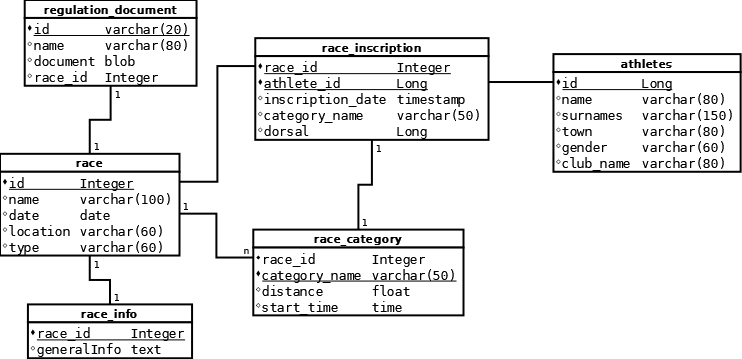
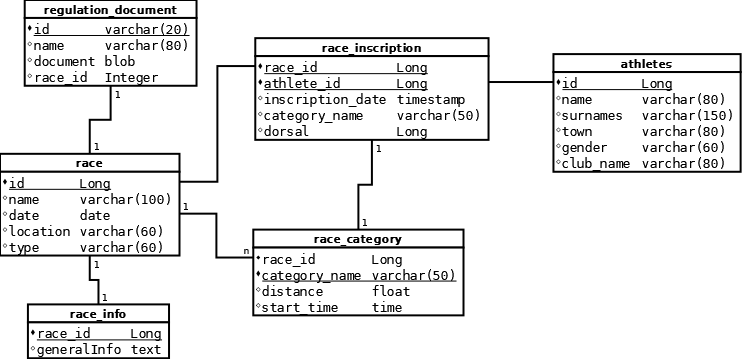
Created race info post request

diff --git a/src/main/java/com/sergio/RaceRegistrationAPI/controller/RaceInfoController.java b/src/main/java/com/sergio/RaceRegistrationAPI/controller/RaceInfoController.java
@@ -1,0 +1,42 @@
+package com.sergio.RaceRegistrationAPI.controller;
+
+import com.sergio.RaceRegistrationAPI.dto.RaceInfoDTO;
+import com.sergio.RaceRegistrationAPI.entity.Race;
+import com.sergio.RaceRegistrationAPI.entity.RaceInfo;
+import com.sergio.RaceRegistrationAPI.service.RaceInfoService;
+import com.sergio.RaceRegistrationAPI.service.RaceService;
+import org.springframework.beans.factory.annotation.Autowired;
+import org.springframework.dao.DataIntegrityViolationException;
+import org.springframework.http.HttpStatus;
+import org.springframework.http.ResponseEntity;
+import org.springframework.http.converter.HttpMessageNotReadableException;
+import org.springframework.web.bind.annotation.PostMapping;
+import org.springframework.web.bind.annotation.RequestBody;
+import org.springframework.web.bind.annotation.RequestMapping;
+import org.springframework.web.bind.annotation.RestController;
+
+import java.sql.Date;
+
+@RestController
+@RequestMapping("/api/v1/")
+public class RaceInfoController {
+    @Autowired
+    RaceInfoService raceInfoService;
+    @Autowired
+    RaceService raceService;
+
+    @PostMapping("info")
+    public ResponseEntity<RaceInfo> newRaceInfo(@RequestBody RaceInfoDTO raceInfoDTO) {
+        try {
+            Race race = raceService.findRaceById(raceInfoDTO.getRace_id());
+            RaceInfo raceInfo = new RaceInfo(race, raceInfoDTO.getGeneralInfo());
+            raceInfoService.saveRaceInfo(raceInfo);
+            return ResponseEntity.status(HttpStatus.CREATED).body(raceInfo);
+
+        } catch (HttpMessageNotReadableException e) {
+            throw new HttpMessageNotReadableException(e.getMessage());
+        } catch (DataIntegrityViolationException e) {
+            throw new DataIntegrityViolationException(e.getMessage());
+        }
+    }
+}

diff --git a/src/main/java/com/sergio/RaceRegistrationAPI/controller/RaceController.java b/src/main/java/com/sergio/RaceRegistrationAPI/controller/RaceController.java
@@ -35,7 +35,7 @@ public class RaceController {
     }
 
     @PutMapping("race/{id}")
-    public ResponseEntity<Race> updateRace(@RequestBody RaceDTO raceDTO, @PathVariable Integer id) {
+    public ResponseEntity<Race> updateRace(@RequestBody RaceDTO raceDTO, @PathVariable Long id) {
         try {
             Race raceToUpdate = raceService.findRaceById(id);
 
@@ -60,7 +60,7 @@ public class RaceController {
     }
 
     @DeleteMapping("race/{id}")
-    public ResponseEntity<Void> deleteRace(@PathVariable Integer id) {
+    public ResponseEntity<Void> deleteRace(@PathVariable Long id) {
         Race raceToDelete = raceService.findRaceById(id);
         if (raceToDelete == null) {
             throw new ApiRequestExceptionNotFound("Race not found with id: " + id);
@@ -71,7 +71,7 @@ public class RaceController {
     }
 
     @GetMapping("race/{id}")
-    public ResponseEntity<Race> showRaceById(@PathVariable Integer id) {
+    public ResponseEntity<Race> showRaceById(@PathVariable Long id) {
         Race race = raceService.findRaceById(id);
 
         if (race == null) {

diff --git a/src/main/java/com/sergio/RaceRegistrationAPI/service/RaceInfoService.java b/src/main/java/com/sergio/RaceRegistrationAPI/service/RaceInfoService.java
@@ -1,0 +1,28 @@
+package com.sergio.RaceRegistrationAPI.service;
+
+import com.sergio.RaceRegistrationAPI.entity.RaceInfo;
+import com.sergio.RaceRegistrationAPI.repository.RaceInfoRepository;
+import org.springframework.beans.factory.annotation.Autowired;
+import org.springframework.stereotype.Service;
+import org.springframework.transaction.annotation.Transactional;
+
+@Service
+public class RaceInfoService {
+    @Autowired
+    RaceInfoRepository raceInfoRepository;
+    @Transactional
+    public RaceInfo saveRaceInfo(RaceInfo raceInfo){
+        return raceInfoRepository.save(raceInfo);
+    }
+
+    @Transactional
+    public void deleteRaceInfo(RaceInfo raceInfo){
+        raceInfoRepository.delete(raceInfo);
+    }
+
+    @Transactional(readOnly = true)
+    public RaceInfo findRaceById(Long id){
+      return raceInfoRepository.findById(id).orElse(null);
+    }
+
+}

diff --git a/src/main/java/com/sergio/RaceRegistrationAPI/dto/RaceInfoDTO.java b/src/main/java/com/sergio/RaceRegistrationAPI/dto/RaceInfoDTO.java
@@ -1,0 +1,27 @@
+package com.sergio.RaceRegistrationAPI.dto;
+
+public class RaceInfoDTO {
+    private Long raceId;
+    private String generalInfo;
+
+    public RaceInfoDTO(Long raceId, String generalInfo) {
+        this.raceId = raceId;
+        this.generalInfo = generalInfo;
+    }
+
+    public Long getRace_id() {
+        return raceId;
+    }
+
+    public void setRace_id(Long race_id) {
+        this.raceId = raceId;
+    }
+
+    public String getGeneralInfo() {
+        return generalInfo;
+    }
+
+    public void setGeneralInfo(String generalInfo) {
+        this.generalInfo = generalInfo;
+    }
+}

diff --git a/src/main/java/com/sergio/RaceRegistrationAPI/entity/RaceInfo.java b/src/main/java/com/sergio/RaceRegistrationAPI/entity/RaceInfo.java
@@ -9,13 +9,22 @@ import java.util.List;
 @Table(name = "race_info")
 public class RaceInfo {
     @Id
-    @OneToOne(cascade = CascadeType.ALL)
+    private Long id;
+    @OneToOne
+    @MapsId
     @JoinColumn(name = "race_id", nullable = false)
     private Race race;
 
     @Column(name = "general_info", columnDefinition = "TEXT", nullable = false)
     private String generalInfo;
 
+    public RaceInfo() {
+    }
+
+    public RaceInfo(Race race, String generalInfo) {
+        this.race = race;
+        this.generalInfo = generalInfo;
+    }
 
     public Race getRace() {
         return race;

diff --git a/src/main/java/com/sergio/RaceRegistrationAPI/entity/Race.java b/src/main/java/com/sergio/RaceRegistrationAPI/entity/Race.java
@@ -14,7 +14,7 @@ public class Race {
     @Id
     @GeneratedValue(strategy = GenerationType.IDENTITY)
     @Column(name = "id")
-    private Integer raceID;
+    private Long raceID;
 
     @Column(name = "name", nullable = false, length = 100)
     private String raceName;
@@ -43,11 +43,11 @@ public class Race {
     }
 
 
-    public Integer getRaceID() {
+    public Long getRaceID() {
         return raceID;
     }
 
-    public void setRaceID(Integer raceID) {
+    public void setRaceID(Long raceID) {
         this.raceID = raceID;
     }
 

diff --git a/src/main/java/com/sergio/RaceRegistrationAPI/repository/RaceInfoRepository.java b/src/main/java/com/sergio/RaceRegistrationAPI/repository/RaceInfoRepository.java
@@ -1,9 +1,10 @@
 package com.sergio.RaceRegistrationAPI.repository;
 
 import com.sergio.RaceRegistrationAPI.entity.Race;
+import com.sergio.RaceRegistrationAPI.entity.RaceInfo;
 import org.springframework.data.jpa.repository.JpaRepository;
 import org.springframework.stereotype.Repository;
 
 @Repository
-public interface RaceRepository extends JpaRepository<Race, Long> {
+public interface RaceInfoRepository extends JpaRepository<RaceInfo, Long> {
 }

diff --git a/src/main/java/com/sergio/RaceRegistrationAPI/service/RaceService.java b/src/main/java/com/sergio/RaceRegistrationAPI/service/RaceService.java
@@ -24,7 +24,7 @@ public class RaceService {
     }
 
     @Transactional(readOnly = true)
-    public Race findRaceById(Integer id){
+    public Race findRaceById(Long id){
         return raceRepository.findById(id).orElse(null);
     }
 
